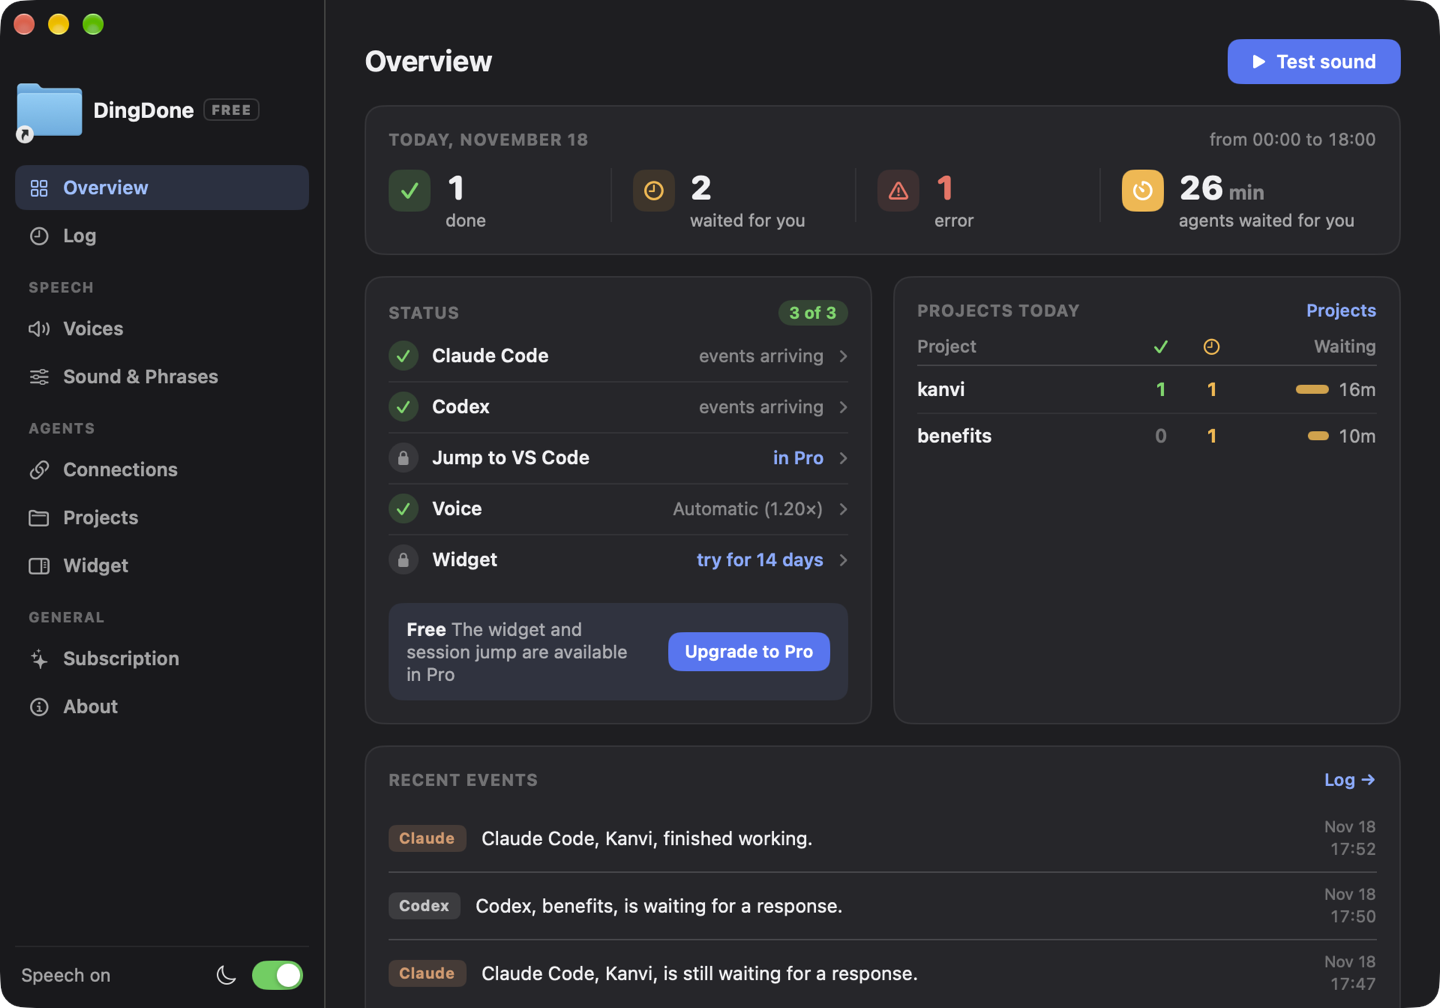
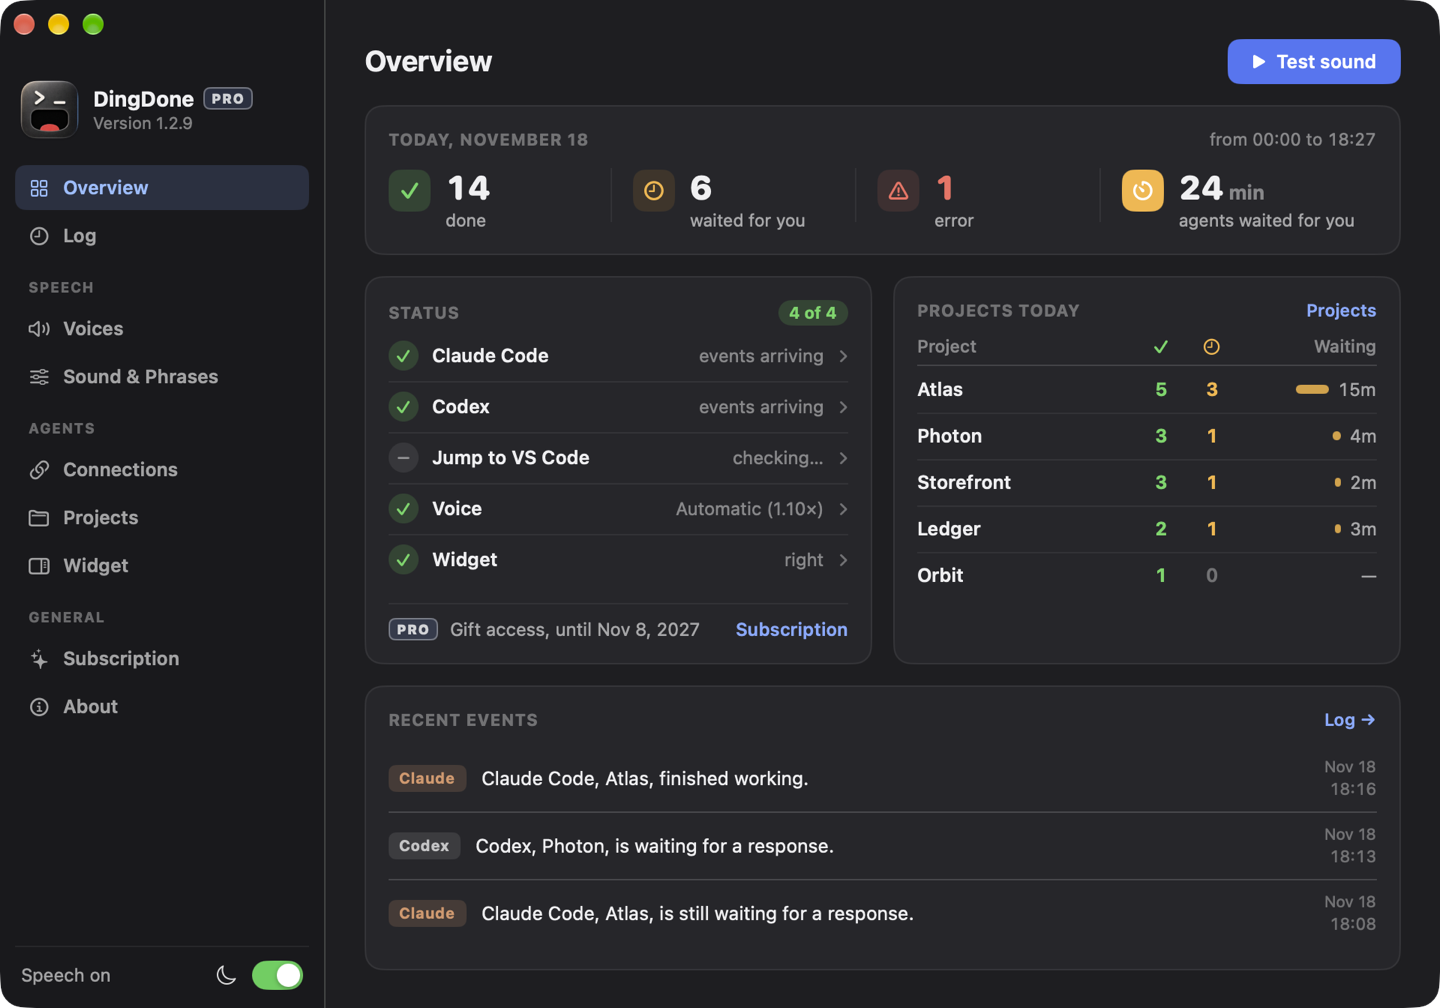
Show Pro screens and the site's hero animation in README

diff --git a/README.md b/README.md
@@ -23,17 +23,19 @@
   Apple silicon · macOS 13 or newer · signed and notarized by Apple · free, no account
 </p>
 
+<p align="center">
+  <img src="screenshots/hero.gif" width="880" alt="DingDone in action: a notification card says which project is waiting, and a voice reads it out">
+</p>
+
 ---
 
-> **"Claude Code, Kanvi, finished working."**
-> **"Codex, benefits, is waiting for a response."**
+> **"Claude Code, Atlas, finished working."**
+> **"Codex, Photon, is waiting for a response."**
 
 DingDone is a small menu-bar app. When Claude Code or Codex finishes a task, asks a question,
 needs a permission or stops with an error, DingDone plays a short chime and says which agent it
 was, in which project, and what happened. You can stop watching the spinner and come back only
 when something meaningful changes.
-
-![DingDone overview: today's events, agent status and projects](screenshots/overview.png)
 
 ## What it does
 
@@ -52,19 +54,30 @@ when something meaningful changes.
 
 ## A closer look
 
+**Overview.** Today at a glance: finished tasks, how often and how long agents waited for you,
+errors, and which projects were busiest.
+
+![Overview: today's events, agent status and projects](screenshots/overview.png)
+
+**Widget.** A slim panel at the edge of the screen shows active sessions by status. A card slides
+out when something happens and hides on its own. Choose a mascot, icons or plain numbers.
+
+![Widget settings with a live preview of the edge panel](screenshots/widget.png)
+
+**Voices.** Use any macOS voice for free, or pick from the Premium library: narrators,
+announcers, calm and energetic voices in many languages. You can also bring your own ElevenLabs key.
+
+![Premium voice library with tags and previews](screenshots/voices-premium.png)
+
+**Connections.** One click adds DingDone's hooks to Claude Code and Codex. The VS Code extension
+lets a notification open the exact Claude Code session.
+
+![Connections: Claude Code, Codex, VS Code extension and speech services](screenshots/connections.png)
+
 **Sound & Phrases.** Pick a chime and a phrase for each event, set the speech rate and volume,
 and choose how long DingDone waits before reminding you that an agent is still waiting.
 
-![Sound & Phrases settings: speech rate, volume, agent names and per-event phrases](screenshots/sound.png)
-
-**Voices.** Choose any installed macOS voice, or leave it on *Automatic* to get the best voice
-installed for your language.
-
-![Voices: macOS system voices with preview buttons](screenshots/voices.png)
-
-**Log.** A day-by-day history of every spoken notification.
-
-![Log of spoken notifications for Claude Code and Codex](screenshots/log.png)
+![Sound & Phrases: speech rate, volume, agent names and per-event phrases](screenshots/sound.png)
 
 <sub>Screenshots use demo projects.</sub>
 
@@ -89,9 +102,9 @@ bar.
 The voice notifications described above are free, with no time limit and no account.
 
 Pro is optional and adds:
-- the **Agent Cockpit**, a widget at the edge of the screen with your active sessions;
+- the **Agent Cockpit**, the widget at the edge of the screen with your active sessions;
 - **jump to session**: click a notification to open that exact Claude Code session in VS Code;
-- **more voices**: hosted voices, or your own ElevenLabs key.
+- **more voices**: the Premium voice library, or your own ElevenLabs key.
 
 You can try the widget free for 14 days inside the app.
 
@@ -101,7 +114,7 @@ You can try the widget free for 14 days inside the app.
   It never reads or logs your prompts, your code or the agent's replies.
 - Apple voices run entirely on your Mac.
 - The local log keeps only the event type, the folder and the phrase that was spoken.
-- Hosted voices (Pro) receive only the short notification phrase.
+- Premium voices receive only the short notification phrase.
 
 Read the full [privacy policy](PRIVACY.md).
 
